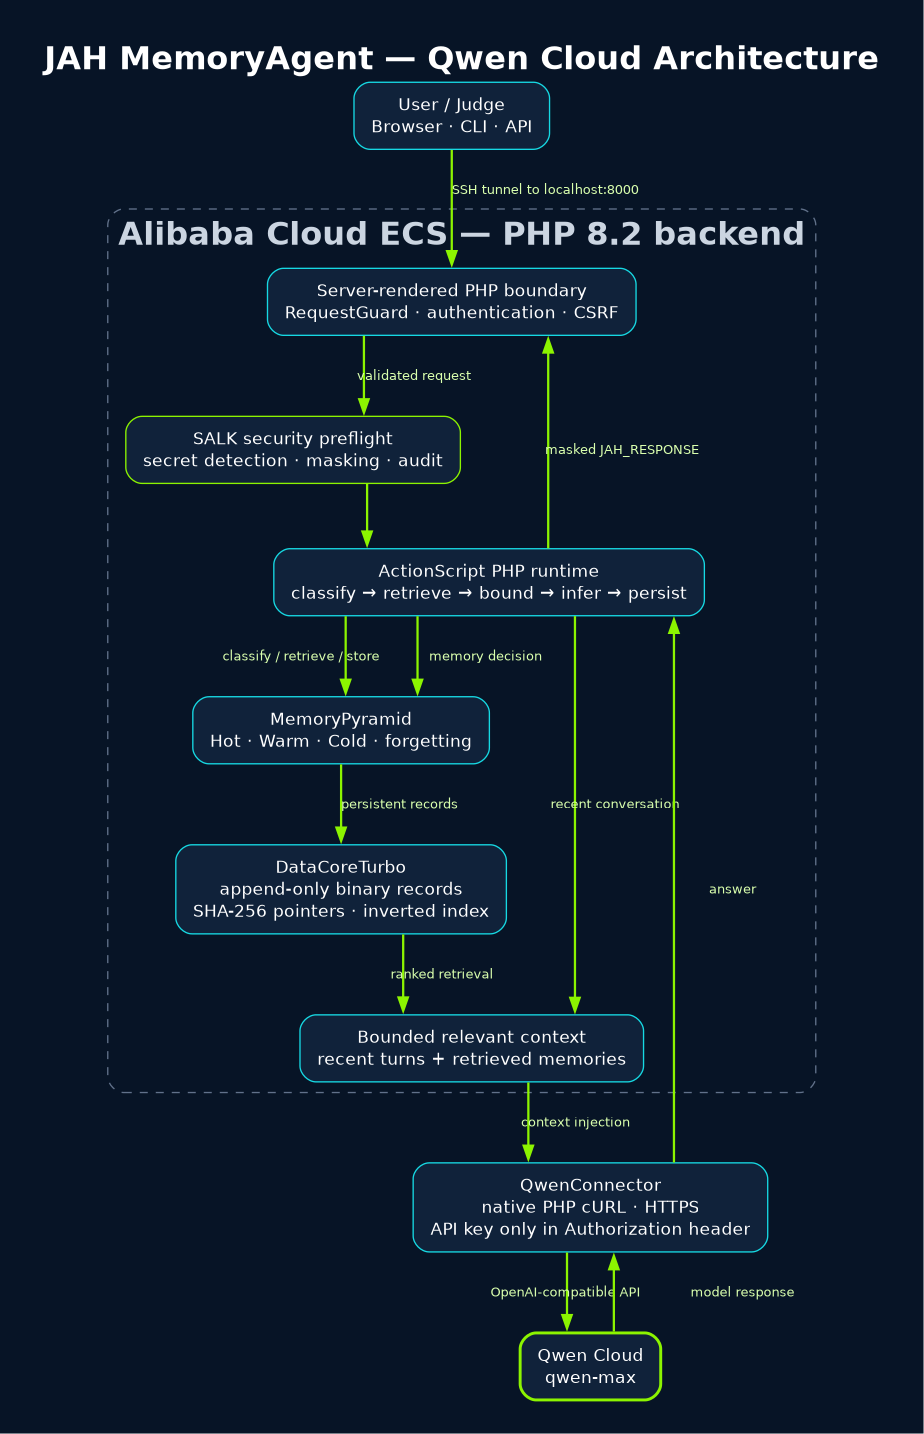
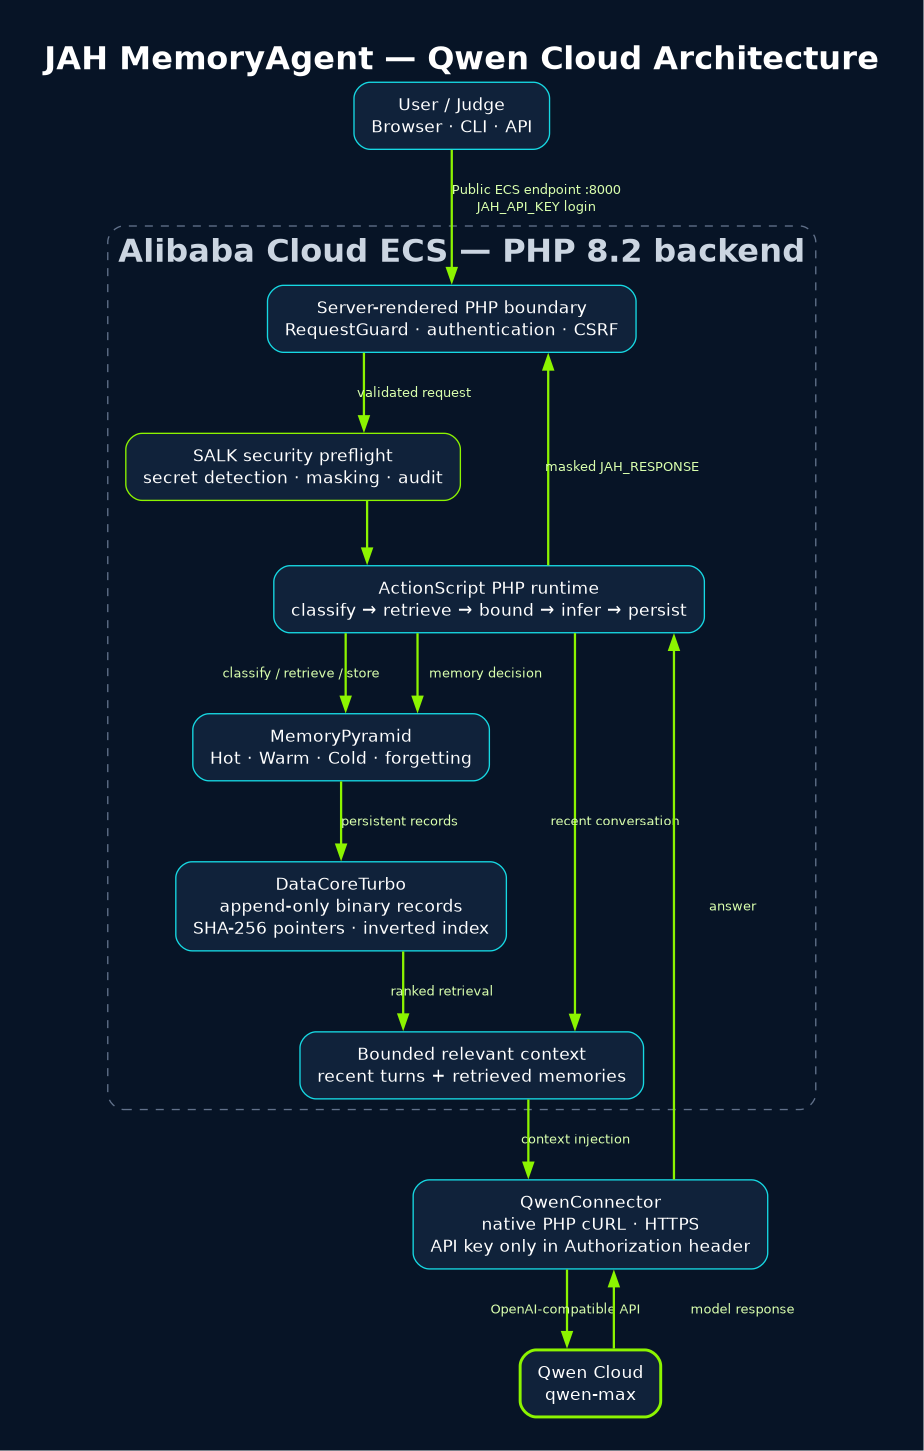
clarify public ECS judging access

diff --git a/ALIBABA_CLOUD_PROOF.md b/ALIBABA_CLOUD_PROOF.md
@@ -32,12 +32,12 @@ The deployment was verified on Alibaba Cloud Linux 3 (OpenAnolis Edition), x86-6
 
 ## Automated ECS deployment
 
-On a clean Alibaba Cloud Linux 3 ECS instance, install Git, clone the deployment branch, and run the installer as root:
+On a clean Alibaba Cloud Linux 3 ECS instance, install Git, clone the public repository, and run the installer as root:
 
 ```bash
 dnf install -y git
 cd /root
-git clone -b agent/alibaba-ecs-installer https://github.com/esmeydub/jah-php.git
+git clone https://github.com/esmeydub/jah-php.git
 cd /root/jah-php
 chmod 755 deploy_alibaba_ecs.sh
 ./deploy_alibaba_ecs.sh
@@ -53,14 +53,33 @@ ss -ltnp | grep ':8000'
 cat /root/jah-php/runtime/deployment/alibaba-ecs-proof.txt
 ```
 
-## Secure test access through an SSH tunnel
+## Current public judging access
 
-Port 8000 was deliberately **not** added to the ECS Security Group. Only the existing SSH port is used. This keeps the PHP development server and the authenticated JAH interface off the public Internet while still allowing a judge or operator with SSH authorization to test the real ECS deployment.
+The judging deployment is currently available directly from the Alibaba Cloud ECS public IP:
+
+```text
+http://47.77.201.239:8000/index.php
+```
+
+Inbound TCP 8000 is temporarily authorized in the ECS Security Group for hackathon evaluation. The application remains protected by the server-side `JAH_API_KEY` login. The temporary judge key is shared only in Devpost's private testing instructions; it is not stored in this repository or exposed in the demo video. `QWEN_API_KEY` remains server-side at all times.
+
+The current request path is:
+
+```text
+Judge browser -> ECS public IP:8000 -> JAH_API_KEY login
+  -> jah-memoryagent.service -> Qwen Cloud over outbound HTTPS
+```
+
+After the judging period, the public port rule should be removed and the temporary judge key rotated.
+
+## Historical private validation through an SSH tunnel
+
+Before public judging access was enabled, the deployment was tested without opening inbound TCP 8000. An SSH local-forward was used from the authorized workstation:
 
 From the authorized test workstation, start local port forwarding:
 
 ```bash
-ssh -N -L 8000:127.0.0.1:8000 root@<ECS_PUBLIC_IP>
+ssh -N -L 8000:127.0.0.1:8000 root@ECS_PUBLIC_IP
 ```
 
 Then open:
@@ -69,7 +88,7 @@ Then open:
 http://127.0.0.1:8000/index.php
 ```
 
-The path is:
+The historical test path was:
 
 ```text
 Browser 127.0.0.1:8000
@@ -79,7 +98,7 @@ Browser 127.0.0.1:8000
   -> Qwen Cloud over outbound HTTPS
 ```
 
-`-N` tells SSH not to open a remote shell. `-L 8000:127.0.0.1:8000` maps port 8000 on the tester's own computer to port 8000 on the ECS loopback interface. The browser therefore uses a local URL, but every application request is processed by the real Alibaba Cloud backend. The SSH password or private key and both application API keys remain outside the repository and video.
+`-N` tells SSH not to open a remote shell. `-L 8000:127.0.0.1:8000` maps port 8000 on the tester's own computer to port 8000 on the ECS loopback interface. This tunnel was used only for private deployment validation and video recording; it is not the current judge access method. The SSH password or private key and both application API keys remain outside the repository and video.
 
 ## Deployment verification checklist
 
@@ -105,11 +124,12 @@ php tests/run.php
 php php_actionscript_php_doc/tests/run.php
 ```
 
-Verify the backend through the SSH tunnel from the authorized workstation:
+Verify the current public deployment from a client with the temporary judge key:
 
 ```bash
+PUBLIC_ENDPOINT='http://47.77.201.239:8000'
 curl -H "X-JAH-API-Key: $JAH_API_KEY" \
-  "http://127.0.0.1:8000/api.php?action=status"
+  "$PUBLIC_ENDPOINT/api.php?action=status"
 ```
 
 Verify Qwen and persistent memory:
@@ -120,7 +140,7 @@ curl -X POST \
   -d "action=chat" \
   -d "collection=deployment-proof" \
   -d "message=Remember that this backend is deployed on Alibaba Cloud" \
-  "http://127.0.0.1:8000/api.php"
+  "$PUBLIC_ENDPOINT/api.php"
 ```
 
 ## Submission links

diff --git a/README.md b/README.md
@@ -204,12 +204,12 @@ The recommended deployment path is the included executable installer:
 
 It is designed for a clean **Alibaba Cloud Linux 3 ECS** instance and must be run as `root`. No Docker, Composer, Node.js, npm, Java, or external database is required.
 
-Install Git, clone the deployment branch, and run the script:
+Install Git, clone the public repository, and run the script:
 
 ```bash
 dnf install -y git
 cd /root
-git clone -b agent/alibaba-ecs-installer https://github.com/esmeydub/jah-php.git
+git clone https://github.com/esmeydub/jah-php.git
 cd /root/jah-php
 chmod 755 deploy_alibaba_ecs.sh
 ./deploy_alibaba_ecs.sh
@@ -226,7 +226,7 @@ The script performs the complete deployment sequence:
 7. Installs and enables `jah-memoryagent.service` with `systemd` on port 8000.
 8. Executes live status, Qwen, cross-session memory, retrieval, search, and SALK checks.
 9. Creates a secret-free report at `runtime/deployment/alibaba-ecs-proof.txt`.
-10. Prints the service, logs, local URL, and SSH tunnel commands needed after installation.
+10. Prints the service, logs, local URL, and the SSH tunnel command used for optional private validation.
 
 The credential prompts look like this; typed values are not displayed:
 
@@ -251,34 +251,36 @@ SUMMARY 18/18
 SUMMARY 7/7
 ```
 
-#### Secure access through an SSH tunnel
+#### Current public judging deployment
 
-Keep inbound TCP 8000 closed in the ECS Security Group and run this on the authorized workstation:
-
-```bash
-ssh -N -L 8000:127.0.0.1:8000 root@<ECS_PUBLIC_IP>
-```
-
-Then open `http://127.0.0.1:8000/index.php`. The local address is forwarded through encrypted SSH to the real ECS service. No SSH password, private key, Qwen key, or JAH key belongs in the repository.
-
-#### Temporary public judging access
-
-For hackathon judging only, TCP 8000 can be temporarily authorized in the ECS Security Group and the authenticated interface can be opened at:
+The hackathon judging deployment is currently available at:
 
 ```text
-http://<ECS_PUBLIC_IP>:8000/index.php
+http://47.77.201.239:8000/index.php
 ```
 
-Keep `JAH_API_KEY` enabled, share only a temporary judge key through Devpost's private testing instructions, and never share `QWEN_API_KEY`. Remove the public rule and rotate the judge key after judging.
+Inbound TCP 8000 is temporarily authorized in the Alibaba Cloud ECS Security Group for evaluation. The interface remains protected with `JAH_API_KEY`; the temporary judge key is provided only through Devpost's private testing instructions. `QWEN_API_KEY` remains on the server and is never sent to the browser.
 
-For complete deployment evidence and the detailed tunnel request path, see [`ALIBABA_CLOUD_PROOF.md`](ALIBABA_CLOUD_PROOF.md).
+After judging, remove the public TCP 8000 rule and rotate the temporary judge key.
+
+#### Historical SSH tunnel used during private testing
+
+Before enabling the public judging endpoint, deployment validation and video recording used an SSH local-forward while port 8000 remained closed to the Internet:
+
+```bash
+ssh -N -L 8000:127.0.0.1:8000 root@ECS_PUBLIC_IP
+```
+
+The tester then opened `http://127.0.0.1:8000/index.php`. That tunnel was used only for private testing and is not required for current judge access. No SSH password, private key, Qwen key, or JAH key belongs in the repository.
+
+For current deployment evidence and the historical tunnel explanation, see [`ALIBABA_CLOUD_PROOF.md`](ALIBABA_CLOUD_PROOF.md).
 
 ### Manual local installation
 
 Clone the public repository:
 
 ```bash
-git clone -b agent/alibaba-ecs-installer https://github.com/esmeydub/jah-php.git
+git clone https://github.com/esmeydub/jah-php.git
 cd jah-php
 cp .env.example .env
 ```